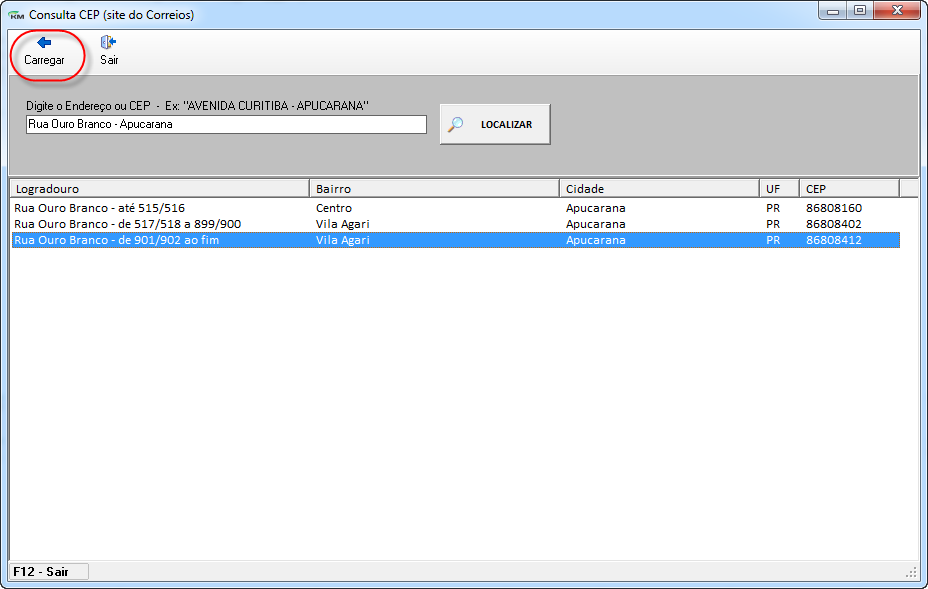
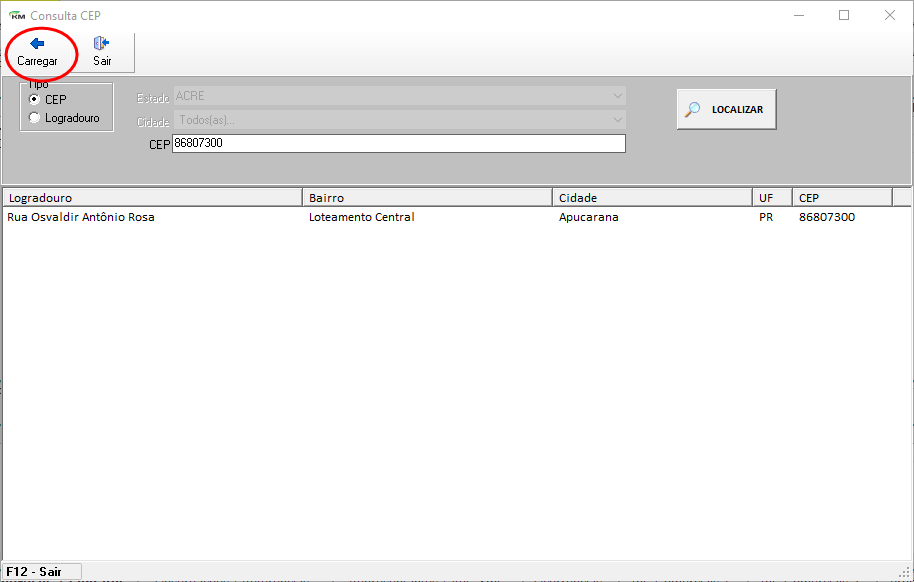
imagem de cep

Changed region(s): [[0.0, 0.0, 1.0, 1.0]]

diff --git a/docs/comum/cadastro-cliente.md b/docs/comum/cadastro-cliente.md
@@ -34,9 +34,12 @@ Vai abrir a seguinte Tela:
 Clique no botão *Insere*, abrirá a seguinte tela para a pesquisa de *CEP*:  
 ![7](/img/cadastro-cliente/8.png)  
 
-Digite o endereço ou cep, e aperte *LOCALIZAR*.  
-Localizar o endereço correto, selecione ele e aperte *Carregar*, como na imagem abaixo:  
-![8](/img/cadastro-cliente/9.png)  
+Digite o cep, e aperte *LOCALIZAR*.  
+Localizado o endereço correto, selecione ele e aperte *Carregar*, como na imagem abaixo:  
+![8](/img/cadastro-cliente/9.png) 
+
+Para localizar por Logradouro, tem que selecionar o *Estado* e *Cidade*, como esta na imagem: 
+![12](/img/cadastro-cliente/12.png) 
 
 Após isso virá a confirmação.  
 ![9](/img/cadastro-cliente/10.png) 
